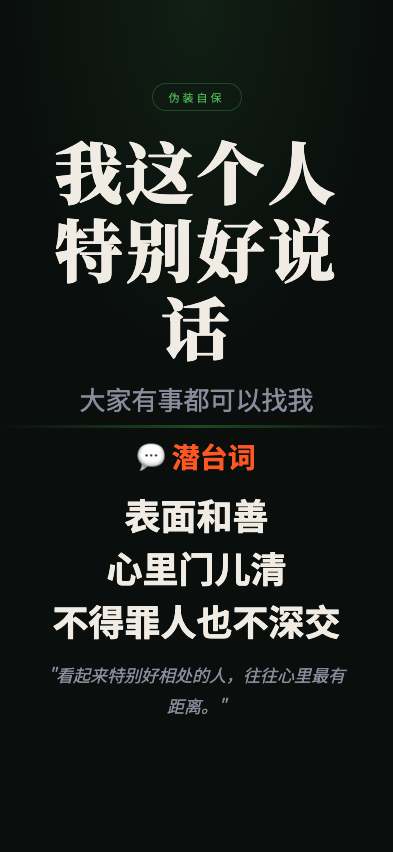
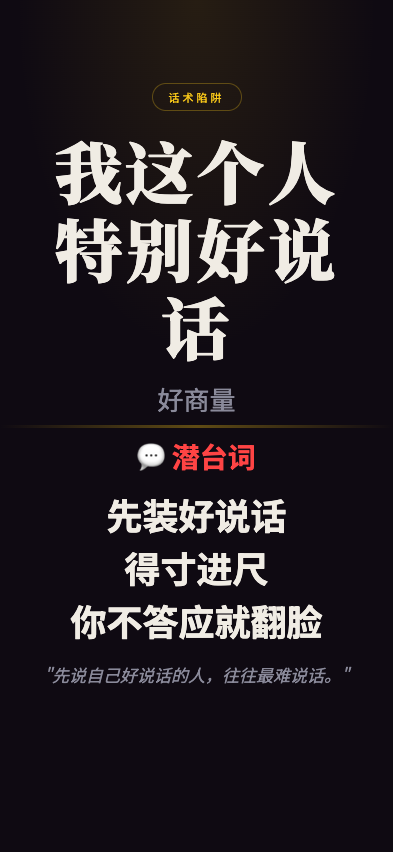
feat: 职场生存法则 screenshot - zhegewoyebutaidong

Changed region(s): [[0.1221, 0.5798, 0.8855, 0.8545], [0.1832, 0.4577, 0.8244, 0.5493], [0.4275, 0.0915, 0.5802, 0.1221]]

diff --git a/wuliao-tools/tools/biz-speak/scenes/wozhegerentebiehaoshuohua.html b/wuliao-tools/tools/biz-speak/scenes/wozhegerentebiehaoshuohua.html
@@ -7,11 +7,11 @@
 <link href="https://fonts.googleapis.com/css2?family=Noto+Serif+SC:wght@400;700;900&family=Noto+Sans+SC:wght@300;400;700&display=swap" rel="stylesheet">
 <style>
   :root {
-    --bg: #0a0f0d;
+    --bg: #0f0a12;
     --text: #f0ece4;
     --text-dim: #8a8a9a;
-    --gold: #4caf50;
-    --red: #ff5722;
+    --gold: #f5c518;
+    --red: #ff4444;
   }
   * { margin:0; padding:0; box-sizing:border-box; }
   html, body { width:100%; height:100%; overflow:hidden; }
@@ -24,11 +24,11 @@
   }
   body::before {
     content:''; position:absolute; top:0; left:0; right:0; height:45%;
-    background:radial-gradient(ellipse at 50% 0%, rgba(76,175,80,0.1) 0%, transparent 65%);
+    background:radial-gradient(ellipse at 50% 0%, rgba(245,197,24,0.1) 0%, transparent 65%);
     pointer-events:none; z-index:0;
   }
   .top { flex:1; display:flex; flex-direction:column; align-items:center; justify-content:flex-end; padding:4px 28px 8px; position:relative; z-index:1; }
-  .tag { font-size:11px; letter-spacing:3px; color:var(--gold); border:1px solid rgba(76,175,80,0.3); padding:5px 16px; border-radius:50px; margin-bottom:20px; }
+  .tag { font-size:11px; letter-spacing:3px; color:var(--gold); border:1px solid rgba(245,197,24,0.3); padding:5px 16px; border-radius:50px; margin-bottom:20px; }
   .main-title { font-family:'Noto Serif SC'; font-size:68px; font-weight:900; text-align:center; line-height:1.15; letter-spacing:3px; min-width:0; overflow-wrap:break-word; max-width:92%; }
   .sub-title { font-size:26px; color:var(--text-dim); text-align:center; margin-top:14px; }
   .divider { width:100%; height:3px; background:linear-gradient(90deg,transparent,var(--gold),transparent); opacity:0.35; flex-shrink:0; position:relative; z-index:1; }
@@ -41,19 +41,19 @@
 </head>
 <body>
   <div class="top">
-    <div class="tag">伪装自保</div>
+    <div class="tag">话术陷阱</div>
     <div class="main-title">我这个人特别好说话</div>
-    <div class="sub-title">大家有事都可以找我</div>
+    <div class="sub-title">好商量</div>
   </div>
   <div class="divider"></div>
   <div class="bottom">
     <div class="truth-label">💬 潜台词</div>
     <div class="truth-lines">
-      <div class="truth-line">表面和善</div>
-      <div class="truth-line">心里门儿清</div>
-      <div class="truth-line">不得罪人也不深交</div>
+      <div class="truth-line">先装好说话</div>
+      <div class="truth-line">得寸进尺</div>
+      <div class="truth-line">你不答应就翻脸</div>
     </div>
-    <div class="quote">"看起来特别好相处的人，往往心里最有距离。"</div>
+    <div class="quote">"先说自己好说话的人，往往最难说话。"</div>
   </div>
 </body>
 </html>
